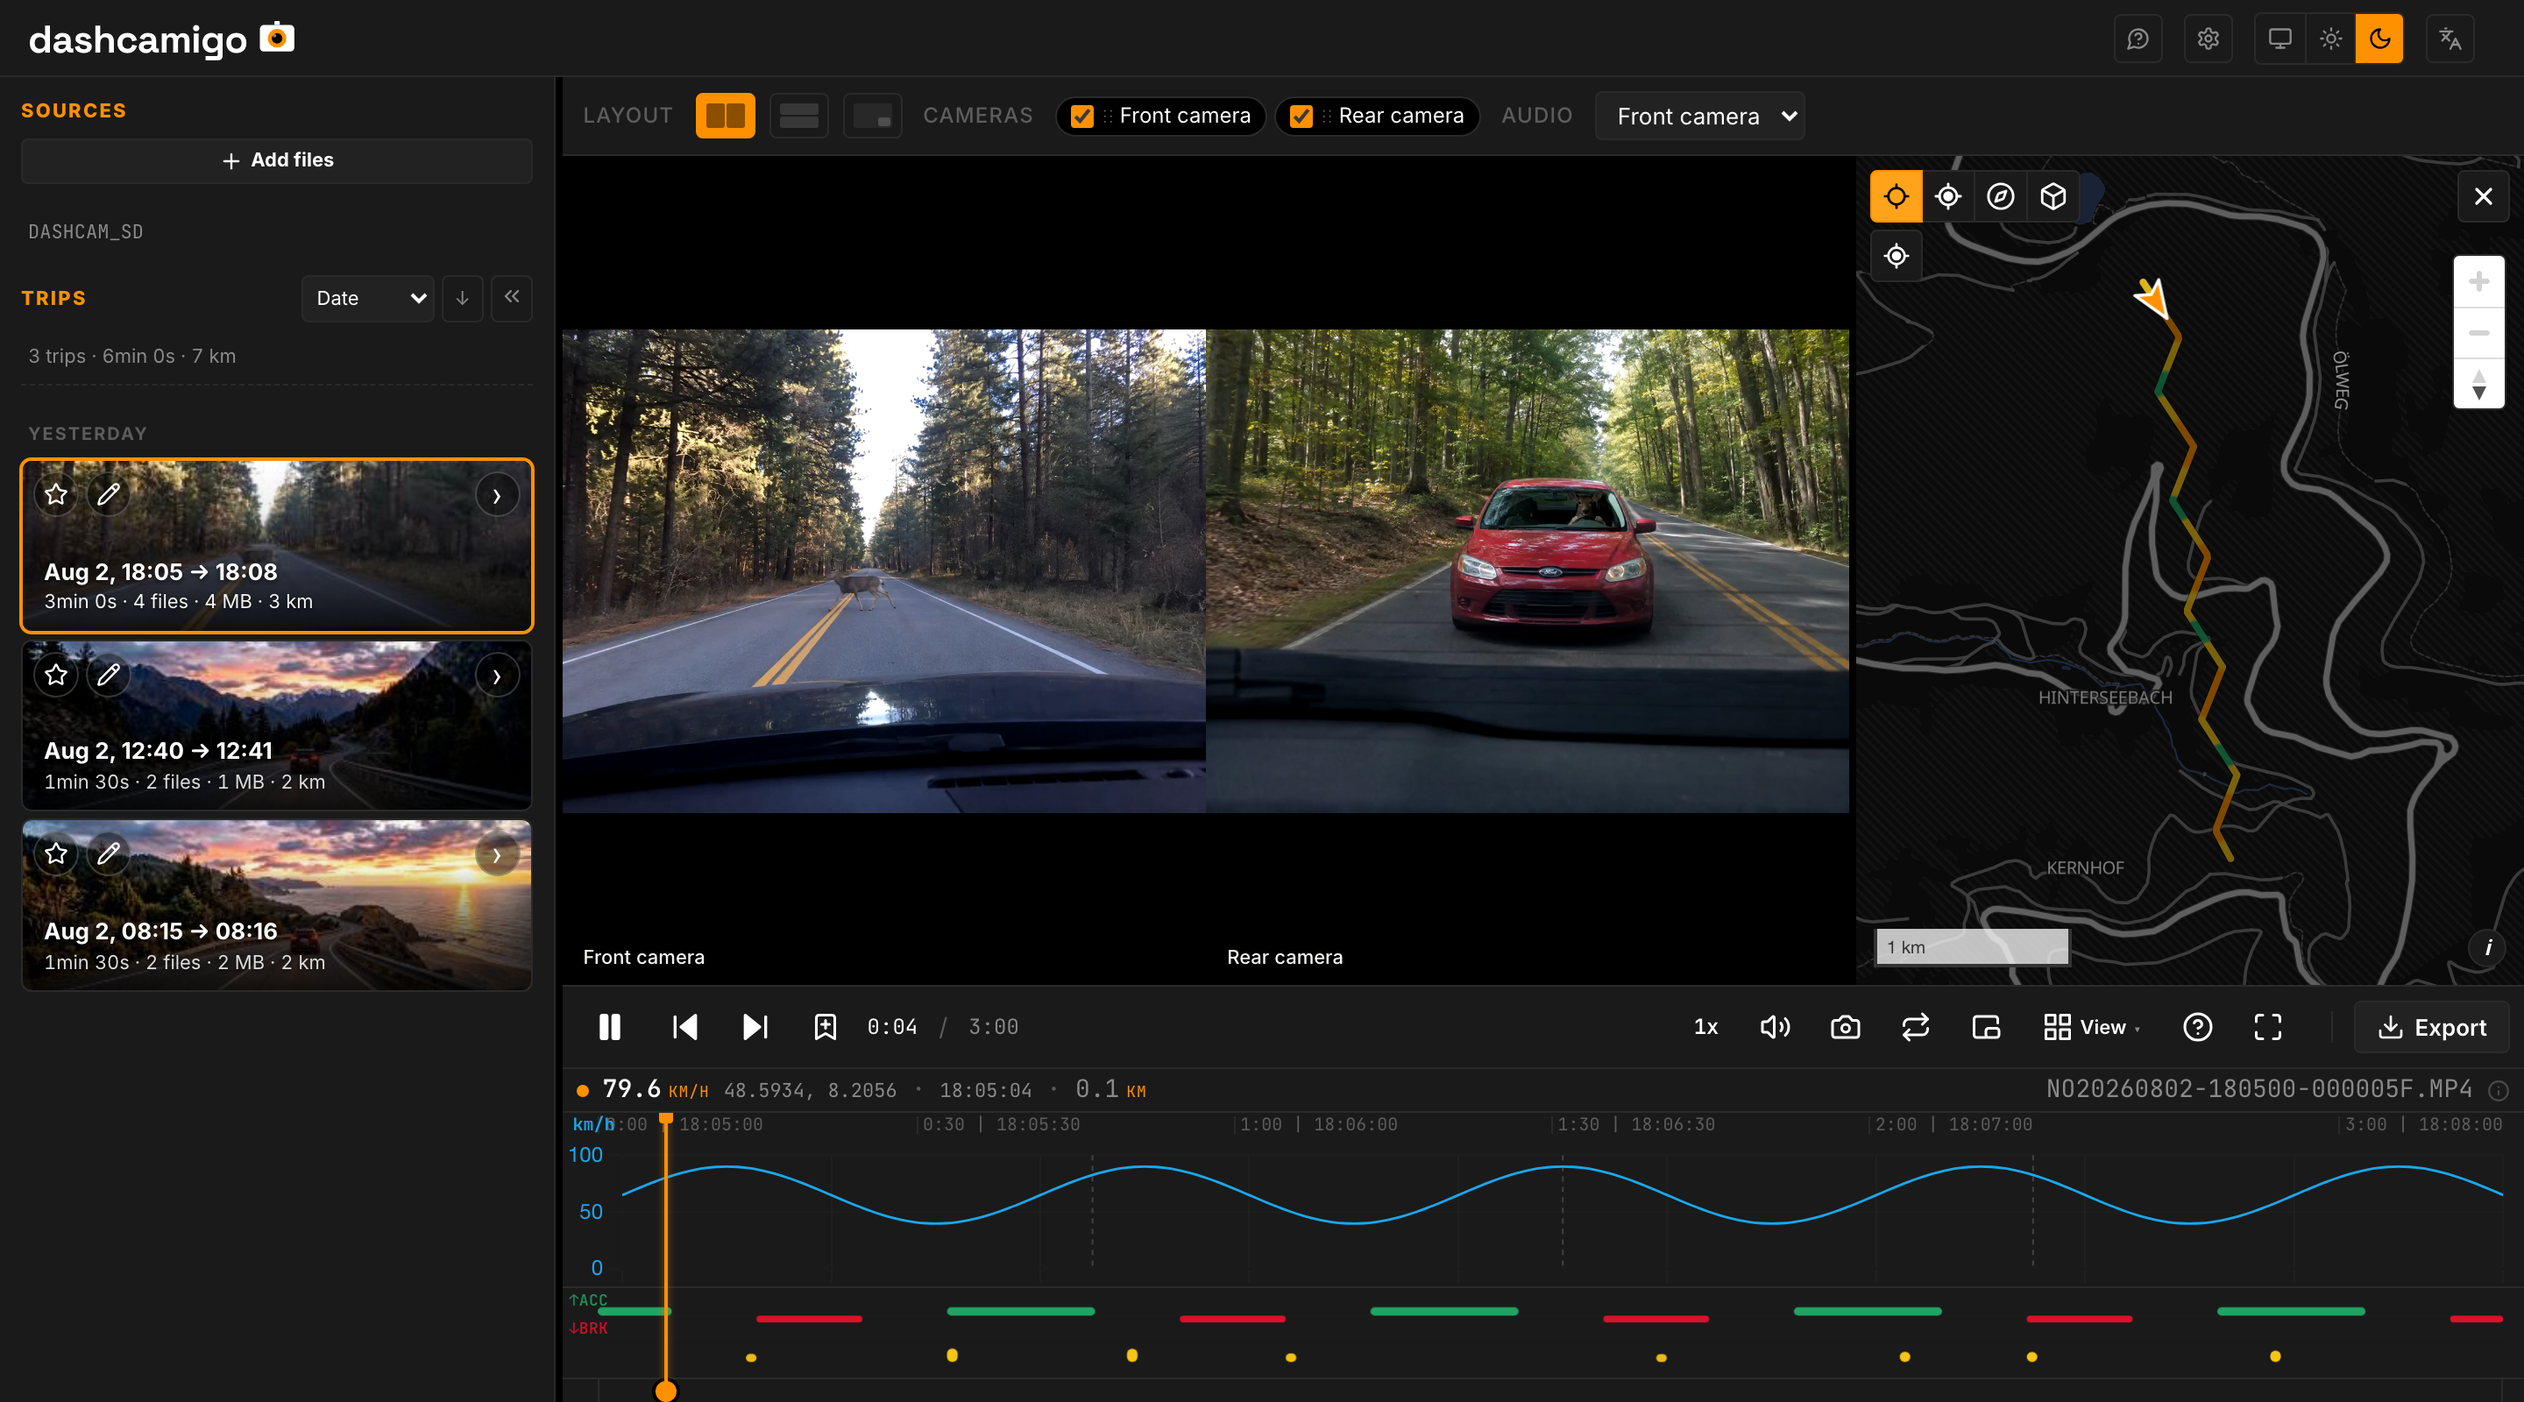
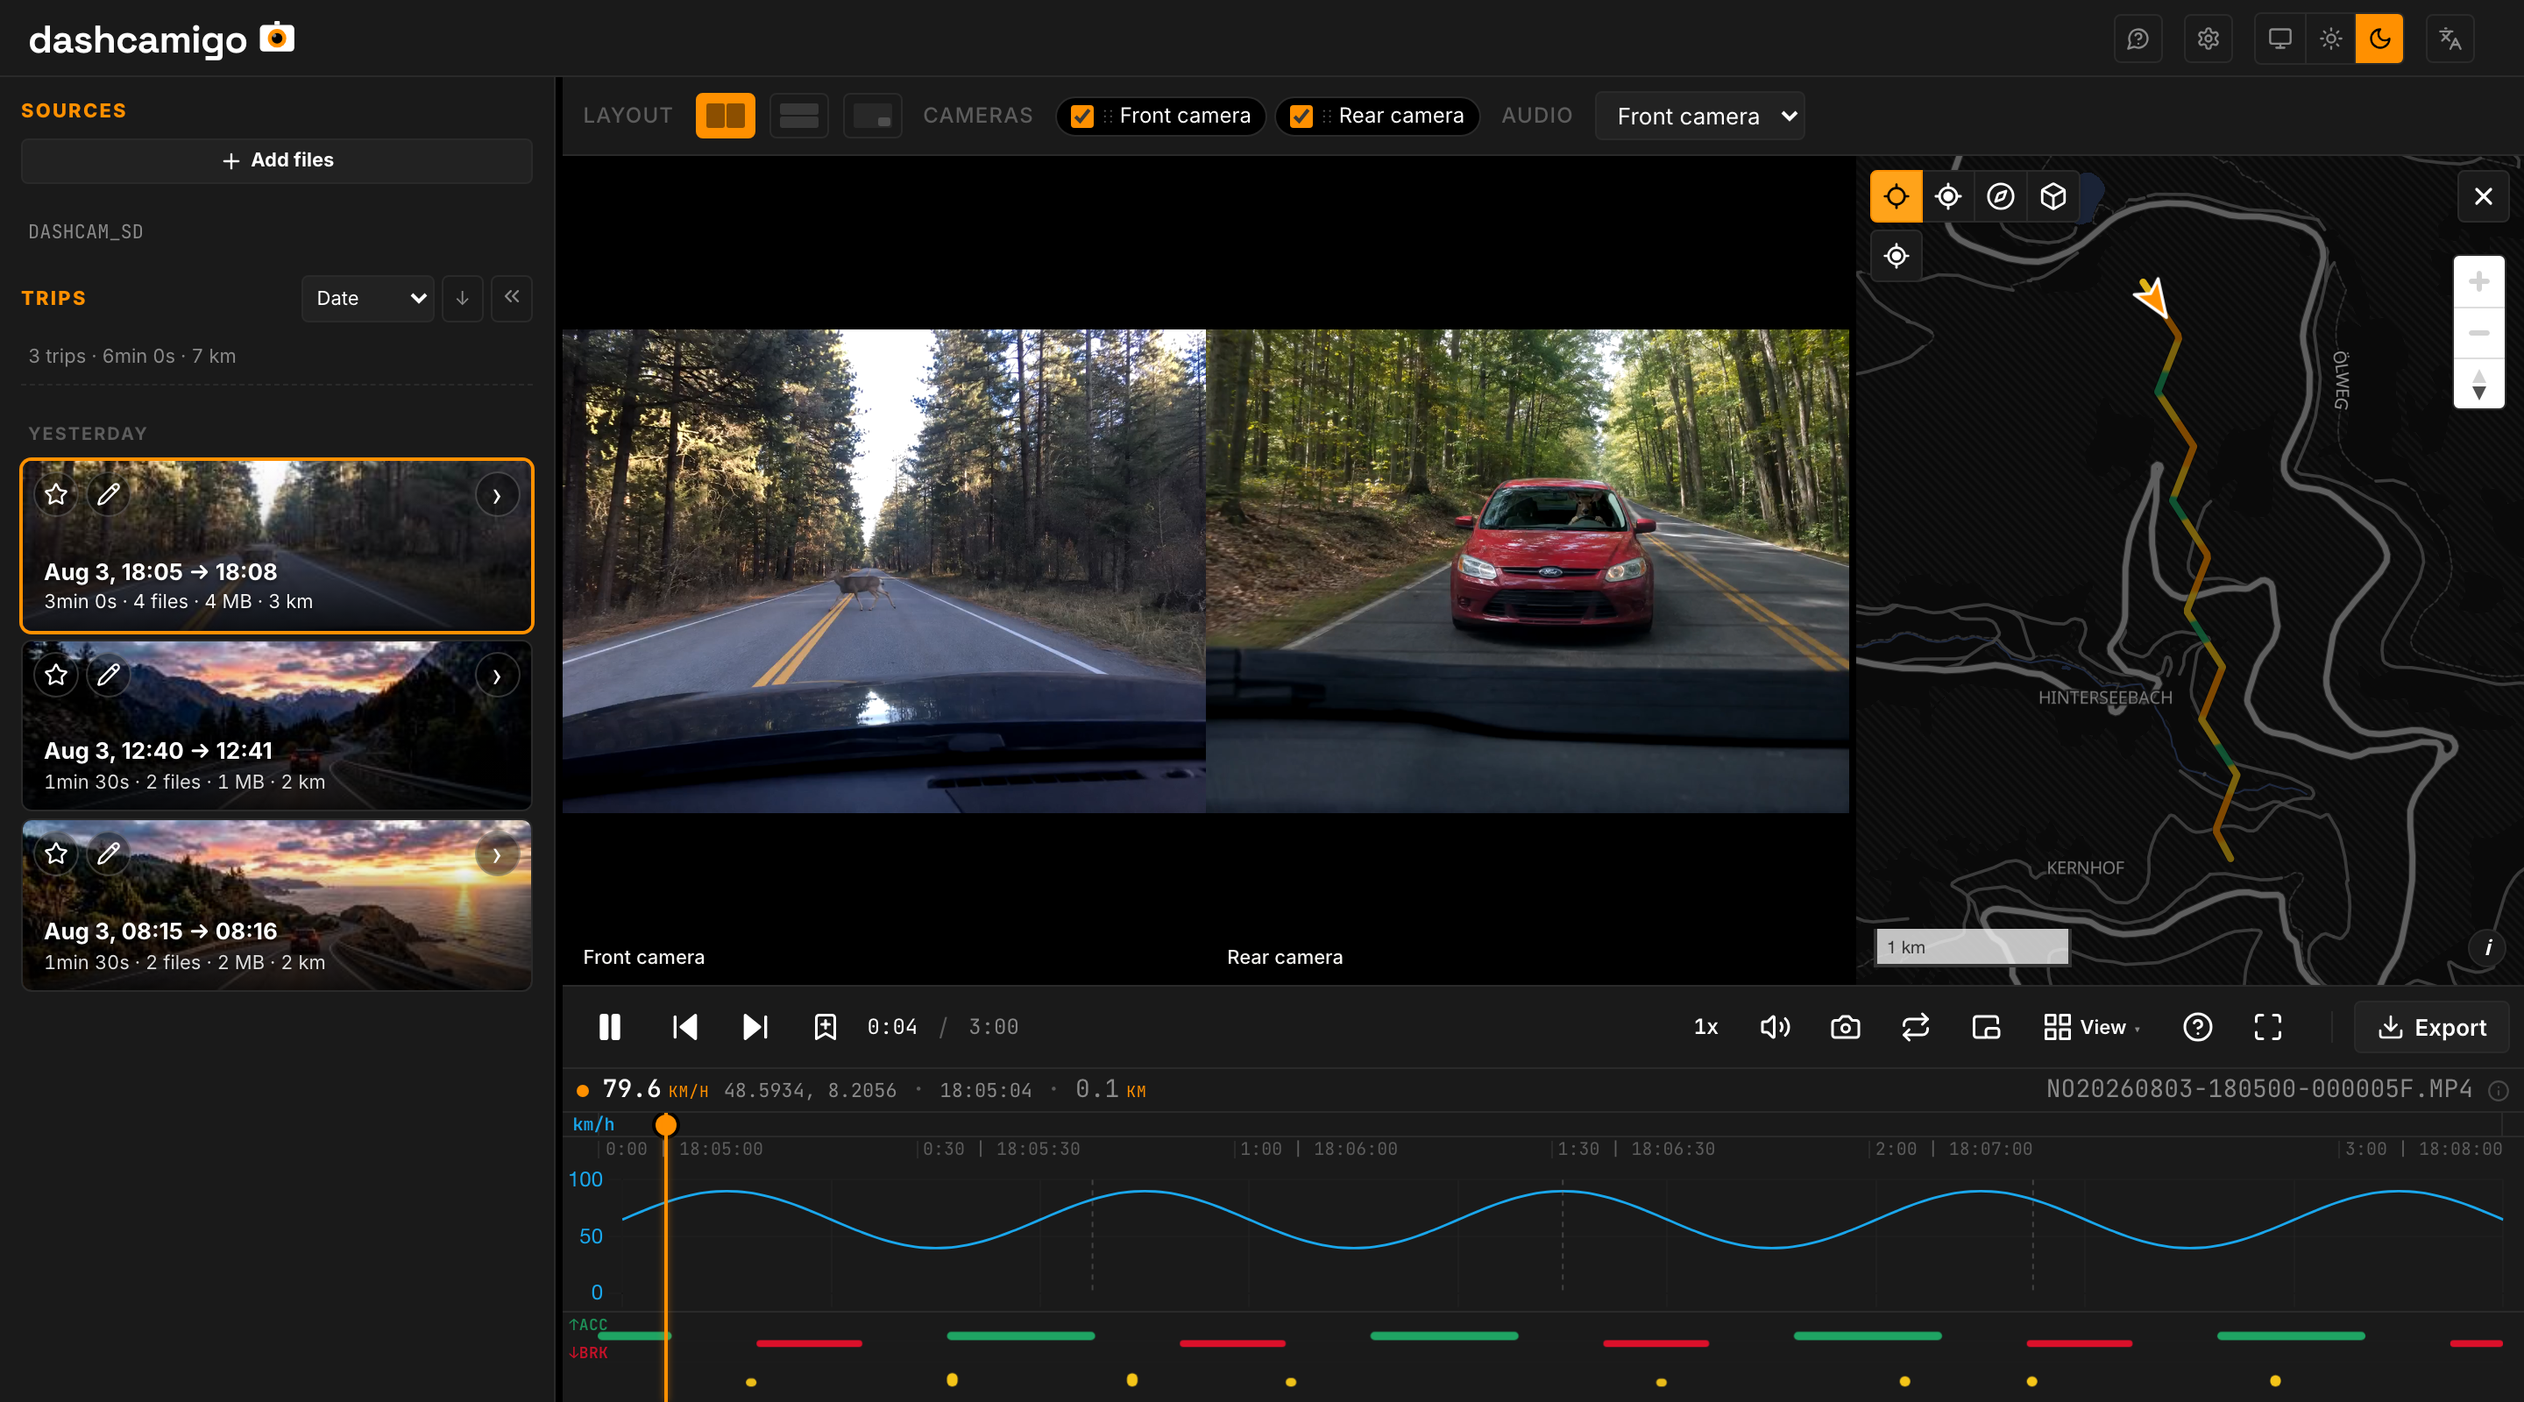
feat(player): the seek scrubber leads the timeline stack
The always-on mini-progress bar moves from the bottom row of the
timeline stack to the top, adjacent to the transport bar - finishing
the earlier move that put the bar next to the timeline. The stack now
reads video -> controls -> seek bar, with the chart/strip analytics
below as their own block, instead of burying the primary seek surface
under them at the window edge. Same order on desktop and mobile.

- --scrubber-h on .player-chart is the single height knob; the marker
  flag heads and the export-tab grips read it to start below the
  scrubber row, so the top-of-stack drag targets never overlap the
  seek surface.
- The coarse-pointer marker tap zone now grows downward only - growing
  up would reach into the scrubber it must keep clear.
- The playhead's decorative head is dropped: the scrubber thumb sits on
  the same x via the shared timelineSecToFrac mapping and is the handle.
- README/landing screenshots regenerated for the new layout.

diff --git a/src/styles/components/chart.css b/src/styles/components/chart.css
@@ -29,21 +29,10 @@
        the chart, strip and seek track. */
     box-shadow: 0 0 4px color-mix(in srgb, var(--accent) 55%, transparent);
     /* Above the export range overlay (z6) so the current-position line stays
-       visible over the dimming masks. */
+       visible over the dimming masks. No separate head marker: the scrubber
+       thumb in the top row sits on the same x (shared timelineSecToFrac
+       mapping) and IS the handle. */
     z-index: 7;
-}
-.player-chart-playhead::before {
-    /* Tab-shaped head on top - a clear handle marking the exact position.
-       Centered on the line via transform, independent of line width. */
-    content: "";
-    position: absolute;
-    top: 0;
-    left: 50%;
-    transform: translateX(-50%);
-    width: 8px;
-    height: 6px;
-    border-radius: 0 0 var(--dc-radius-xs) var(--dc-radius-xs);
-    background: var(--accent);
 }
 .player-chart-playhead[hidden] {
     display: none;
@@ -90,10 +79,10 @@
     position: relative;
     background: var(--bg-elev);
     border-top: 1px solid var(--border);
-    /* Flex-column layout: ruler-top on top, canvas in the middle (flex:1),
-       ruler-bottom + overview at the bottom. Canvas stays flex:1, the rulers
-       and overview are auto. min-width:0 + overflow:hidden is the same
-       chicken-egg fix as
+    /* Flex-column layout: scrubber on top (next to the transport bar), then
+       ruler, canvas in the middle (flex:1), strip + overview at the bottom.
+       Canvas stays flex:1, the fixed rows are auto. min-width:0 +
+       overflow:hidden is the same chicken-egg fix as
        before: the Chart.js canvas gets an inline width=Npx, and without
        overflow it would keep the parent bloated and ResizeObserver would
        never get a shrink callback. */
@@ -493,17 +482,26 @@
 
 /* =========================================================================
    PROGRESS SCRUBBER (always-on)
-   The always-visible bottom row of the timeline stack inside .player-chart:
-   a neutral seek track with a round thumb at the current position. The
-   chart canvas and event strip above it are optional (View menu); this bar is
-   not - it is the baseline timeline that also carries the playhead + export
-   range overlays. Click/drag to seek - handler in player-scrubber.ts.
+   The always-visible TOP row of the timeline stack inside .player-chart:
+   a neutral seek track with a round thumb at the current position, adjacent
+   to the transport bar above the stack. The chart canvas and event strip
+   below it are optional (View menu); this bar is not - it is the baseline
+   timeline that also carries the playhead + export range overlays.
+   Click/drag to seek - handler in player-scrubber.ts.
+   --scrubber-h is the single height knob: the marker flag heads and the
+   export-tab grips read it to start BELOW this row, so the top-of-stack
+   drag surfaces never overlap the scrubber's own hit area.
    ========================================================================= */
+.player-chart {
+    --scrubber-h: 14px;
+}
 .player-mini-progress {
     flex: 0 0 auto;
     position: relative;
-    height: 14px;
-    border-top: 1px solid var(--border);
+    height: var(--scrubber-h);
+    /* border-BOTTOM: the row sits at the top of the stack, .player-chart's own
+       border-top already separates it from the readout above. */
+    border-bottom: 1px solid var(--border);
     cursor: pointer;
     user-select: none;
     touch-action: none;
@@ -531,22 +529,20 @@
    the full 44px touch floor - that would eat scarce chart vertical space. The
    thumb is center-anchored (top:50%), so it stays put as the bar grows. */
 @media (pointer: coarse) {
-    .player-mini-progress {
-        height: 24px;
-    }
-    /* The zoomed-timeline drag-pan bar is 12px - a thin touch handle. Grow the
-       grabbable height to match the mini-progress bump (the viewport rect inside
-       scales via top:0/bottom:0). Only present while zoomed, so no permanent cost. */
-    .range-overview {
-        height: 20px;
-    }
     /* Route the two-finger pinch into our zoom handler instead of the browser's
        page zoom: pan-y still lets a single finger scroll the viewer vertically,
        but a pinch is no longer a recognised gesture here so both pointers reach
        the JS pinch (chart.ts). Children that own a drag (overview, mini-progress)
        keep their own touch-action:none. */
     .player-chart {
+        --scrubber-h: 24px;
         touch-action: pan-y;
+    }
+    /* The zoomed-timeline drag-pan bar is 12px - a thin touch handle. Grow the
+       grabbable height to match the mini-progress bump (the viewport rect inside
+       scales via top:0/bottom:0). Only present while zoomed, so no permanent cost. */
+    .range-overview {
+        height: 20px;
     }
 }
 .player-mini-progress__thumb {

diff --git a/index.html b/index.html
@@ -1415,6 +1415,25 @@
                          src/ui/timeline-markers.ts via the chart overlay-sync
                          hook; empty when the trip has no markers. -->
                     <div id="player-chart-markers" class="timeline-markers"></div>
+                    <!-- Always-on progress scrubber: time-labelled seek bar that
+                         also carries the playhead + export-range overlays for the
+                         whole timeline stack. Visible in every mode (chart / strip
+                         are optional via the View menu). Top row of the stack, so
+                         it sits next to the transport bar; the chart/strip below
+                         are the analytics block. Click/drag to seek; updated from
+                         updatePlayerProgressUi. -->
+                    <div class="player-mini-progress" id="player-mini-progress" role="slider"
+                         aria-label="Trip progress"
+                         data-i18n-attr="aria-label:player.progress"
+                         aria-valuemin="0" aria-valuemax="100" aria-valuenow="0"
+                         tabindex="0">
+                        <div class="player-mini-progress__thumb" id="player-mini-progress-thumb" aria-hidden="true"></div>
+                        <!-- Hover/drag tooltip: thumbnail + mm:ss above the cursor. -->
+                        <div class="player-mini-progress__tooltip" id="player-mini-progress-tooltip" aria-hidden="true" hidden>
+                            <canvas class="player-mini-progress__preview" id="player-mini-progress-thumb-canvas" width="160" height="90"></canvas>
+                            <span class="player-mini-progress__time mono" id="player-mini-progress-time">0:00</span>
+                        </div>
+                    </div>
                     <!-- Time-scale over the chart: one label per tick -
                          "0:00 | 17:03:00" (relative to trip start +
                          absolute clock). Ticks and labels are generated by
@@ -1471,23 +1490,6 @@
                             aria-label="Full view" title="Full view">
                         <svg width="14" height="14" viewBox="0 0 24 24" fill="none" stroke="currentColor" stroke-width="2" stroke-linecap="round" stroke-linejoin="round" aria-hidden="true"><path d="M3 7V5a2 2 0 0 1 2-2h2"/><path d="M17 3h2a2 2 0 0 1 2 2v2"/><path d="M21 17v2a2 2 0 0 1-2 2h-2"/><path d="M7 21H5a2 2 0 0 1-2-2v-2"/></svg>
                     </button>
-                    <!-- Always-on progress scrubber: time-labelled seek bar that
-                         also carries the playhead + export-range overlays for the
-                         whole timeline stack. Visible in every mode (chart / strip
-                         are optional via the View menu). Click/drag to seek;
-                         updated from updatePlayerProgressUi. -->
-                    <div class="player-mini-progress" id="player-mini-progress" role="slider"
-                         aria-label="Trip progress"
-                         data-i18n-attr="aria-label:player.progress"
-                         aria-valuemin="0" aria-valuemax="100" aria-valuenow="0"
-                         tabindex="0">
-                        <div class="player-mini-progress__thumb" id="player-mini-progress-thumb" aria-hidden="true"></div>
-                        <!-- Hover/drag tooltip: thumbnail + mm:ss above the cursor. -->
-                        <div class="player-mini-progress__tooltip" id="player-mini-progress-tooltip" aria-hidden="true" hidden>
-                            <canvas class="player-mini-progress__preview" id="player-mini-progress-thumb-canvas" width="160" height="90"></canvas>
-                            <span class="player-mini-progress__time mono" id="player-mini-progress-time">0:00</span>
-                        </div>
-                    </div>
                 </div>
                 <div id="video-map-resize" class="player-col-resize" role="separator" aria-orientation="vertical"
                      data-i18n-attr="aria-label:resize.videoMap"

diff --git a/src/styles/components/trip-annotations.css b/src/styles/components/trip-annotations.css
@@ -221,8 +221,8 @@
 }
 
 /* One pin: an inert full-height wrapper draws the hairline; only the flag
-   head at the top is a button. A full-height interactive column would sit
-   over the seek strip and the pan overview below and steal their drags. */
+   head is a button. A full-height interactive column would sit over the
+   seek scrubber above and the pan overview below and steal their drags. */
 .timeline-marker {
     position: absolute;
     top: 0;
@@ -245,7 +245,11 @@
 
 .timeline-marker-hit {
     position: absolute;
-    top: 0;
+    /* Start below the scrubber row (top of the stack): the flag head is a
+       click target and must not sit on the seek surface, where it would
+       steal the grab at exactly the marker's moment. --scrubber-h is
+       inherited from .player-chart (chart.css). */
+    top: var(--scrubber-h, 0px);
     left: 50%;
     transform: translateX(-50%);
     width: 14px;
@@ -286,12 +290,12 @@
     }
     /* Grow the TAP zone past the visible flag to the 24px floor without growing
        the flag itself (the trick the trip-card actions use): a wider button
-       would push its neighbour's pin off its own moment. Down only to the
-       flag's own height - reaching further would cover the seek strip the pin
-       deliberately keeps clear. */
+       would push its neighbour's pin off its own moment. Downward only - the
+       seek scrubber sits directly ABOVE the flag row, and reaching up would
+       steal its grab at the marker's moment. */
     .timeline-marker-hit::before {
         content: "";
         position: absolute;
-        inset: -2px -3px;
+        inset: 0 -3px -4px;
     }
 }

diff --git a/src/ui/player-scrubber.ts b/src/ui/player-scrubber.ts
@@ -1,6 +1,7 @@
-// Bottom mini-progress scrubber: fill, thumb, hover-tooltip with a frame
-// preview, drag-to-seek, keyboard arrows. Also owns updatePlayerProgressUi
-// (the per-timeupdate UI sync) because it writes to the same DOM nodes.
+// Mini-progress scrubber (top row of the timeline stack): fill, thumb,
+// hover-tooltip with a frame preview, drag-to-seek, keyboard arrows. Also owns
+// updatePlayerProgressUi (the per-timeupdate UI sync) because it writes to the
+// same DOM nodes.
 //
 // Depends on the playback core only through two callables passed at init:
 // getTripCurrentTime() and seekTripTime(sec). Keeps the cycle one-directional

diff --git a/src/styles/components/player-composition.css b/src/styles/components/player-composition.css
@@ -440,10 +440,12 @@ body.letterbox-blur .video-tile > video:not(.tile-blur-bg) {
 }
 
 .timeline-range__tab::after {
-    /* Pull-handle "grip" hint at the top so the tab reads as draggable. */
+    /* Pull-handle "grip" hint at the top of the ANALYTICS block, i.e. just
+       below the scrubber row - the grip is a drag target and must not overlap
+       the seek surface above (--scrubber-h inherited from .player-chart). */
     content: "";
     position: absolute;
-    top: 4px;
+    top: calc(var(--scrubber-h, 0px) + 4px);
     left: 50%;
     transform: translateX(-50%);
     width: 10px;
